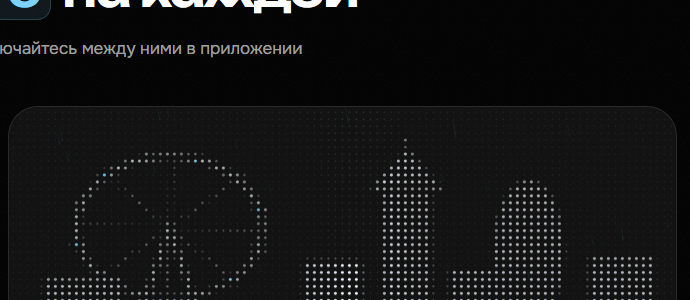
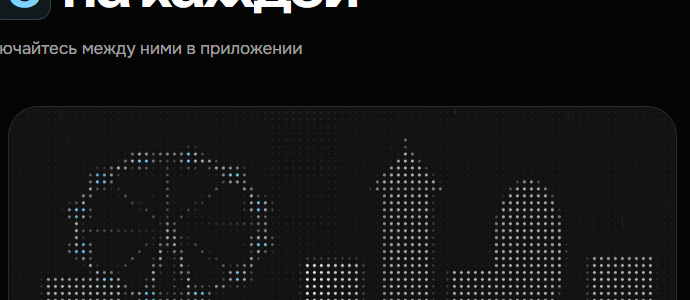
bigger wheel cabins for readable rotation; footer payments only yookassa

diff --git a/landing/components/landing/LocationScene.vue b/landing/components/landing/LocationScene.vue
@@ -155,8 +155,8 @@ function wheelAlpha(px: number, py: number, t: number): number {
   const rot = t * WHEEL_SPEED
   const ang = Math.atan2(dy, dx)
 
-  // rotating capsules on the rim
-  if (Math.abs(r - WHEEL_R) < 7) {
+  // rotating capsules on the rim - big enough to read as moving cabins
+  if (Math.abs(r - WHEEL_R) < 12) {
     let best = 1e9
     for (let k = 0; k < 12; k++) {
       const a = rot + (k * Math.PI) / 6
@@ -164,7 +164,7 @@ function wheelAlpha(px: number, py: number, t: number): number {
       const cy = WCY + Math.sin(a) * WHEEL_R
       best = Math.min(best, Math.hypot(px - cx, py - cy))
     }
-    if (best < 7) return Math.min(1.1, (7 - best) / 5)
+    if (best < 11) return Math.min(1.2, (11 - best) / 7)
   }
 
   // faint rotating spokes

diff --git a/landing/components/landing/SiteFooter.vue b/landing/components/landing/SiteFooter.vue
@@ -58,9 +58,6 @@ const documents = [
       </div>
       <ul class="payment-marks" aria-label="Способы оплаты">
         <li><img src="/images/payments/yookassa.svg" alt="ЮKassa" width="92" height="22" loading="lazy"></li>
-        <li><img src="/images/payments/heleket.svg" alt="Heleket" width="26" height="26" loading="lazy"></li>
-        <li><img src="/images/payments/cryptobot.svg" alt="CryptoBot" width="35" height="19" loading="lazy"></li>
-        <li>Карта МИР</li>
       </ul>
     </div>
   </footer>
